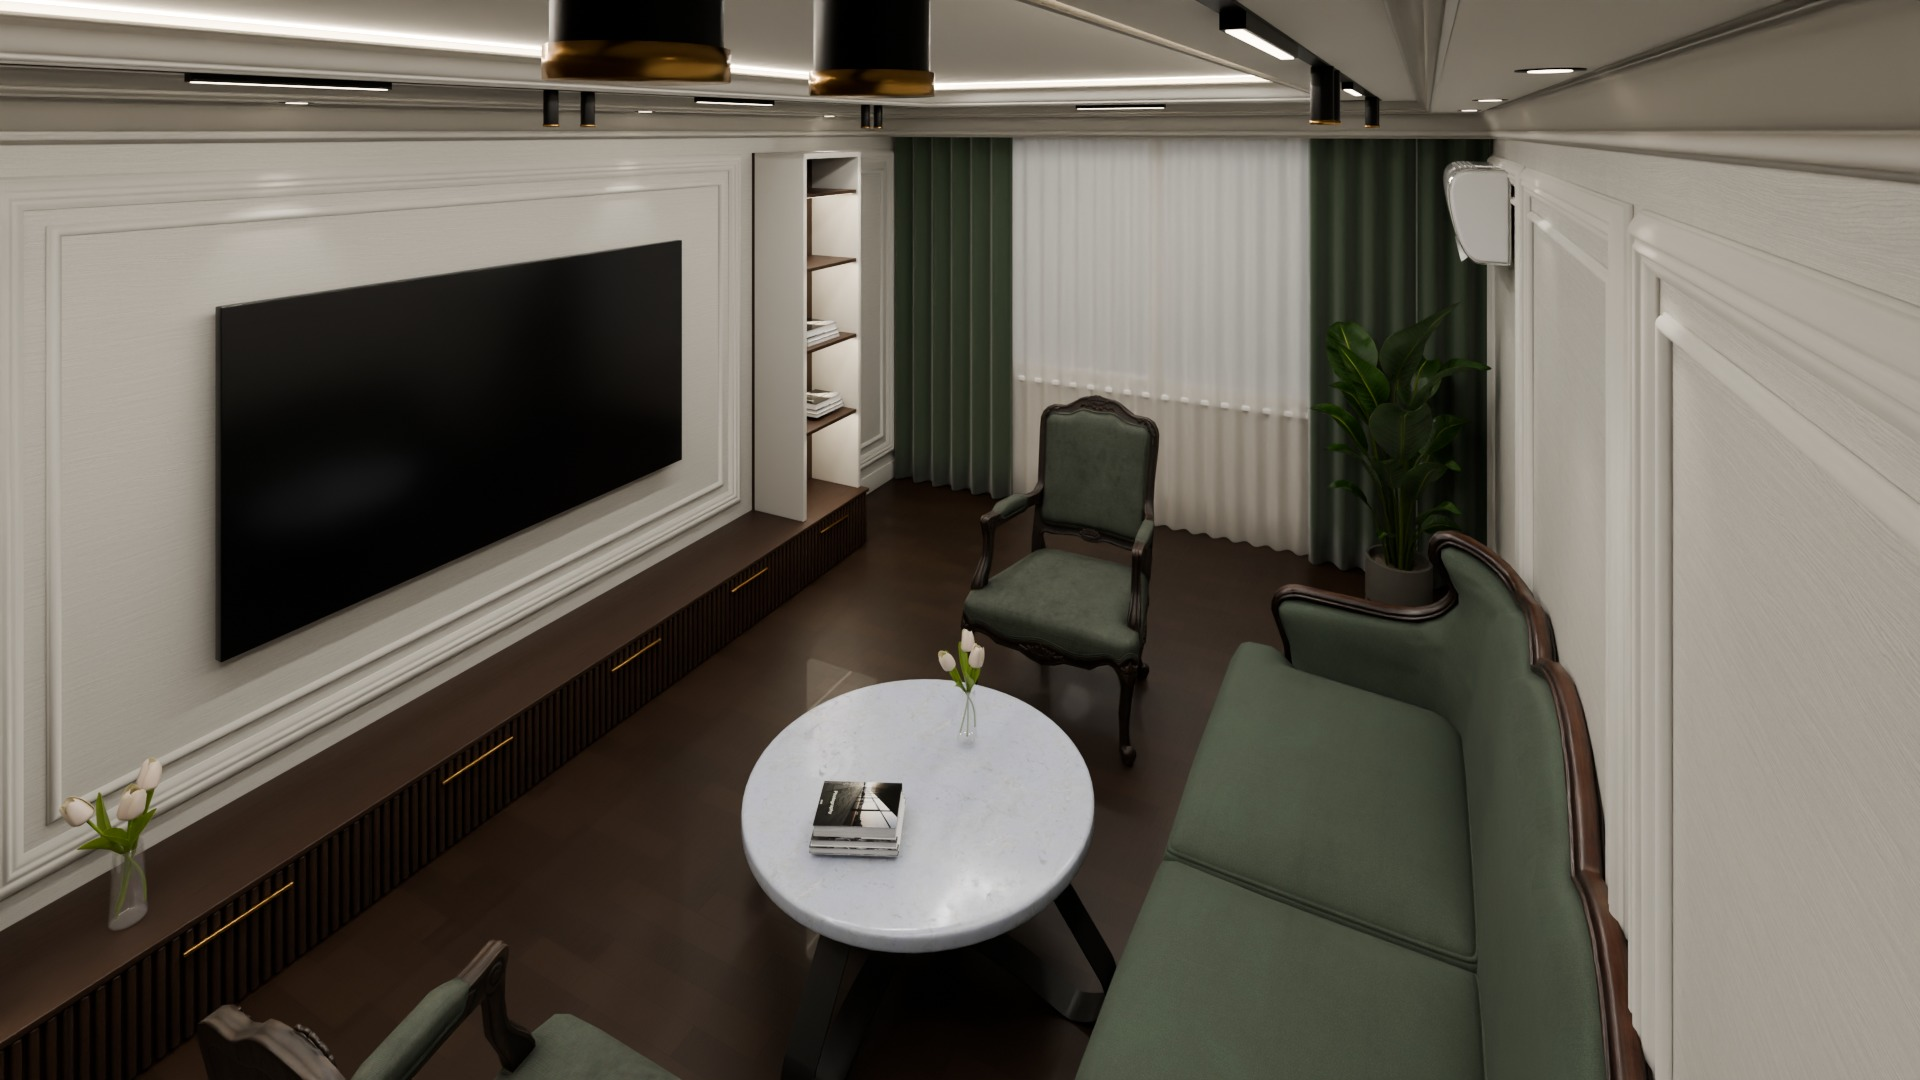
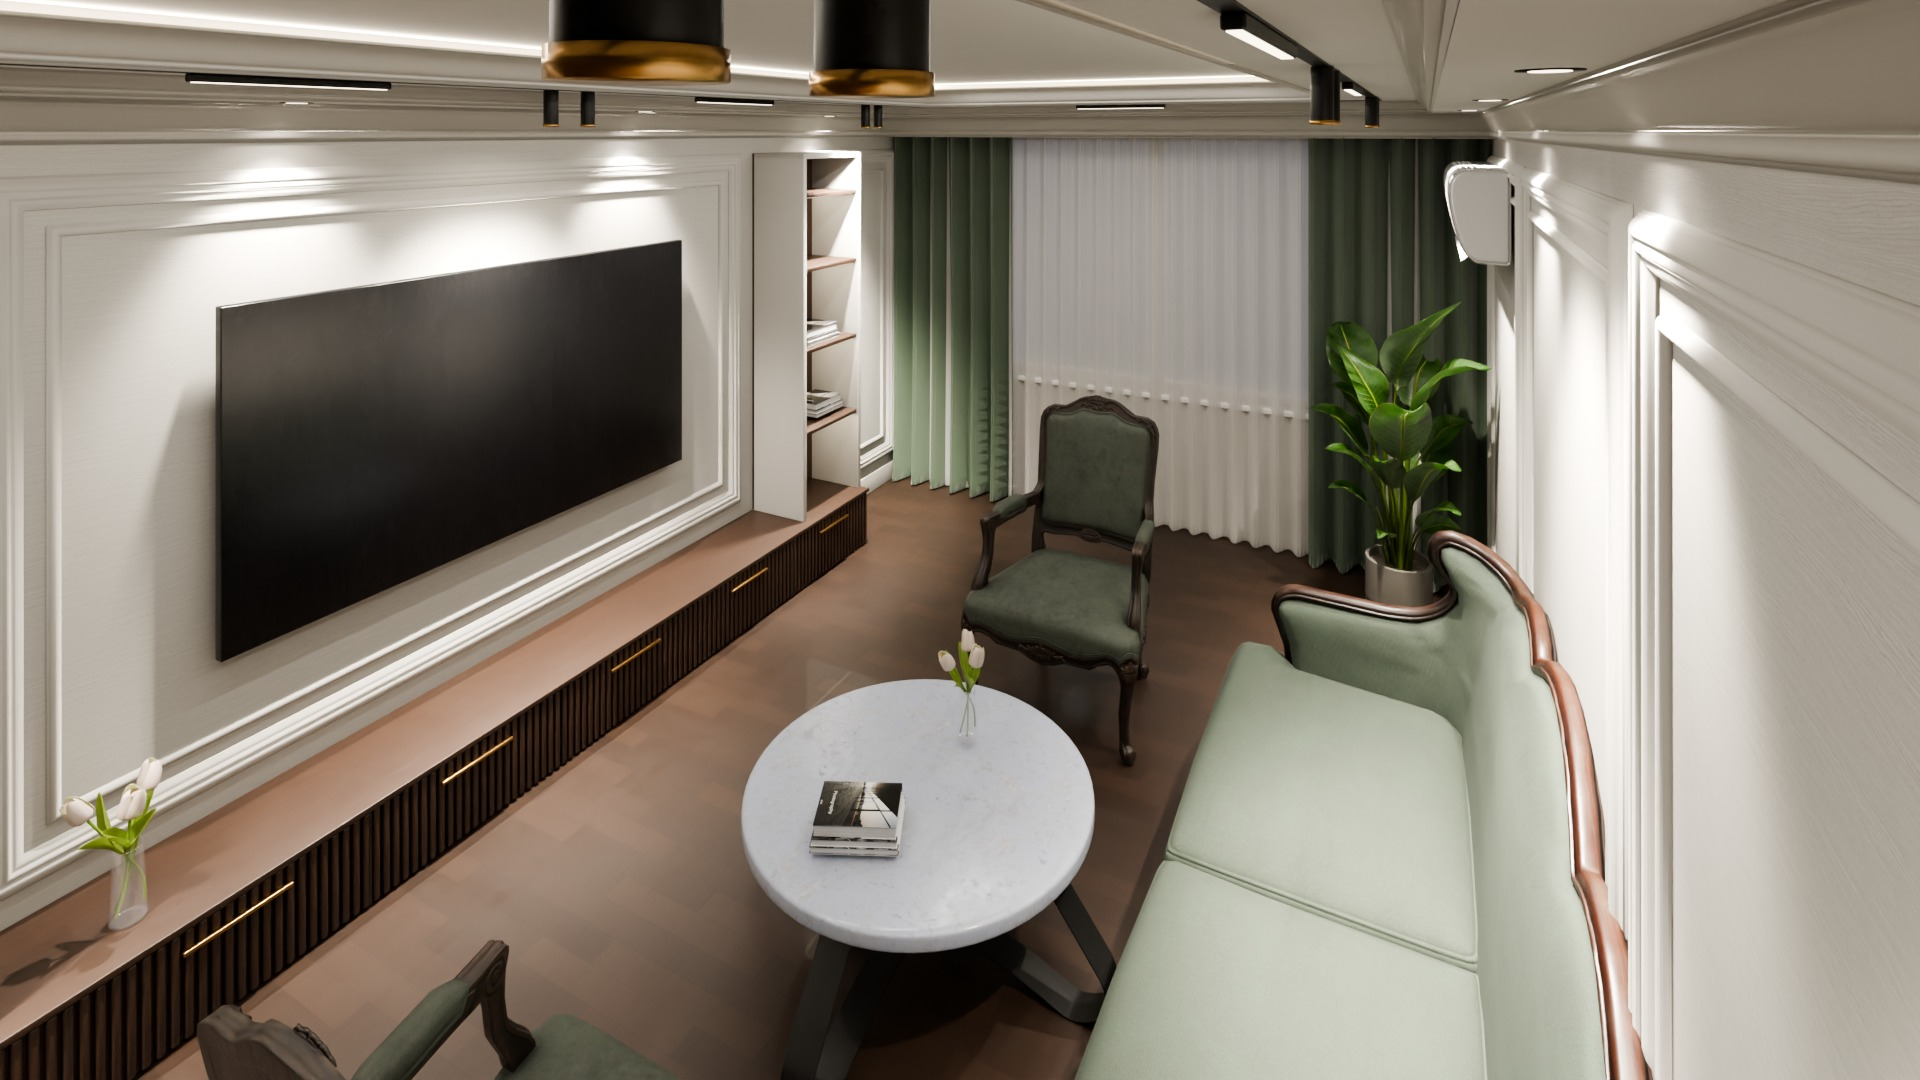
Альбом: все кадры в супер-реализме (IES, порталы, шторы, потёртости); гостиная 1 и коридор получили режим real

diff --git a/02_skripty/real_common.py b/02_skripty/real_common.py
@@ -1,0 +1,29 @@
+# -*- coding: utf-8 -*-
+"""14.11.2026: блок «real» для скриптов без своего (гостиная 1, коридор) — как в komnata_blender.py:
+фаски на мебели, небо HDRI в окне, долгий расчёт, затем real_plus.py (IES, порталы, шторы, потёртости).
+Камеру не трогаем (ракурсы гостиной и коридора уже согласованы)."""
+import os, bpy
+PROJ = globals().get("PROJ", r"D:\PROJECT\sadi_architertura")
+OPT = globals().get("OPT") or dict(a.split("=", 1) for a in ARGS if "=" in a)
+for _o in [o for o in sc.objects if o.type == "MESH" and len(o.data.vertices) <= 24 and not o.name.startswith(("Пол", "Стена", "Потолок", "Окно", "Над", "Под", "Стекло"))]:
+    _ds = [x for x in _o.dimensions if x > 0]
+    if not _ds or max(_ds) < 0.01: continue
+    _b = _o.modifiers.new("fаска", "BEVEL"); _b.width = min(0.004, min(_ds) * 0.3); _b.segments = 2; _b.limit_method = "ANGLE"
+_hd = os.path.join(PROJ, "03_materialy", "hdri", "sky.hdr")
+if os.path.exists(_hd) and OPT.get("hdri", "1") == "1":
+    _w = sc.world or bpy.data.worlds.new("W"); sc.world = _w
+    try: _w.use_nodes = True
+    except Exception: pass
+    _nt = _w.node_tree
+    _bg = _nt.nodes.get("Background") or _nt.nodes.new("ShaderNodeBackground"); _env = _nt.nodes.new("ShaderNodeTexEnvironment")
+    _env.image = bpy.data.images.load(_hd, check_existing=True); _nt.links.new(_env.outputs["Color"], _bg.inputs["Color"])
+    _bg.inputs["Strength"].default_value = float(OPT.get("sky", "1.0"))
+    _ou = next((n for n in _nt.nodes if n.type == "OUTPUT_WORLD"), None) or _nt.nodes.new("ShaderNodeOutputWorld")
+    _nt.links.new(_bg.outputs[0], _ou.inputs["Surface"])
+sc.cycles.samples = int(OPT.get("samples", "500")); sc.cycles.adaptive_threshold = 0.01
+sc.cycles.max_bounces = 12; sc.cycles.diffuse_bounces = 6; sc.cycles.glossy_bounces = 6; sc.cycles.sample_clamp_indirect = 8
+sc.view_settings.exposure += float(OPT.get("dexp", "0"))
+try: sc.view_settings.look = "AgX - Medium High Contrast"
+except Exception: pass
+if OPT.get("plus", "1") == "1":
+    exec(open(os.path.join(PROJ, "02_skripty", "real_plus.py"), encoding="utf-8").read())

diff --git a/02_skripty/real_plus.py b/02_skripty/real_plus.py
@@ -32,7 +32,7 @@ if _O.get("noies") != "1":
     _f = _ies_file(); _n = 0
     for _o in [o for o in sc.objects if o.type == "LIGHT" and o.data.type == "SPOT"]:
         _l = _o.data; _e = _l.energy; _col = tuple(_l.color)
-        _l.type = "POINT"; _l = _o.data; _l.energy = _e * 1.15; _l.color = _col; _l.shadow_soft_size = 0.025
+        _l.type = "POINT"; _l = _o.data; _l.energy = _e * float(_O.get("iesk", "1.15")); _l.color = _col; _l.shadow_soft_size = 0.025
         try: _l.use_nodes = True
         except Exception: pass
         _nt = _l.node_tree
@@ -99,7 +99,7 @@ if _O.get("nocurt") != "1":
         if len(cols) < 3: continue
         tulle = _o.name.startswith("Тюль"); NV = 40
         bm = bmesh.new(); grid = []
-        ph = [random.uniform(0, 6.283) for _ in range(len(cols))]
+        ph = [2.3 * a + 1.4 * math.sin(4.1 * a + 0.7) for a, _ in cols]   # плавно вдоль шторы (без «дождя» из полос)
         for j in range(NV + 1):
             t = j / NV; h = z0 + (z1 - z0) * t; down = 1 - t; row = []
             for i, (a, d) in enumerate(cols):

diff --git a/02_skripty/gostinaya_blender.py b/02_skripty/gostinaya_blender.py
@@ -1283,6 +1283,8 @@ if VARIANTS:
         sc.render.filepath = os.path.join(vd, f"{k:02d}.jpg"); bpy.ops.render.render(write_still=True)
         print("VARIANT", k)
     raise SystemExit
+if "real" in ARGS and "fast" not in ARGS:   # 14.11: супер-реализм (real_common.py → real_plus.py)
+    exec(open(os.path.join(os.path.dirname(os.path.abspath(__file__)), "real_common.py"), encoding="utf-8").read())
 # ---- 14.11: БЫСТРЫЙ ПРОСМОТР (аргумент fast): EEVEE, 1280×720, файлы q_*.jpg — финал (Cycles) не перезаписывается
 if "fast" in ARGS:
     for _e in ("BLENDER_EEVEE", "BLENDER_EEVEE_NEXT"):

diff --git a/02_skripty/koridor_blender.py b/02_skripty/koridor_blender.py
@@ -403,6 +403,8 @@ try:
 except Exception: pass
 sc.view_settings.exposure = float(OPT.get("exp", "-2.0"))
 tag = OPT.get("tag", "")
+if "real" in ARGS and "fast" not in ARGS:   # 14.11: супер-реализм (real_common.py → real_plus.py)
+    exec(open(os.path.join(os.path.dirname(os.path.abspath(__file__)), "real_common.py"), encoding="utf-8").read())
 # ---- 14.11: БЫСТРЫЙ ПРОСМОТР (аргумент fast): EEVEE, 1280×720, файлы q_*.jpg — финал (Cycles) не перезаписывается
 if "fast" in ARGS:
     for _e in ("BLENDER_EEVEE", "BLENDER_EEVEE_NEXT"):
